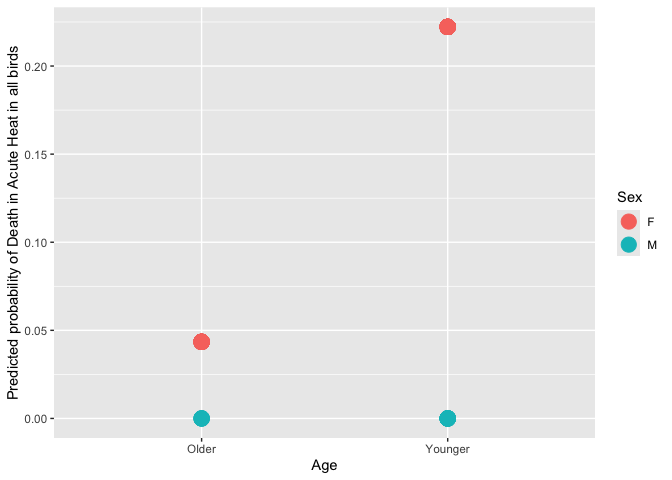
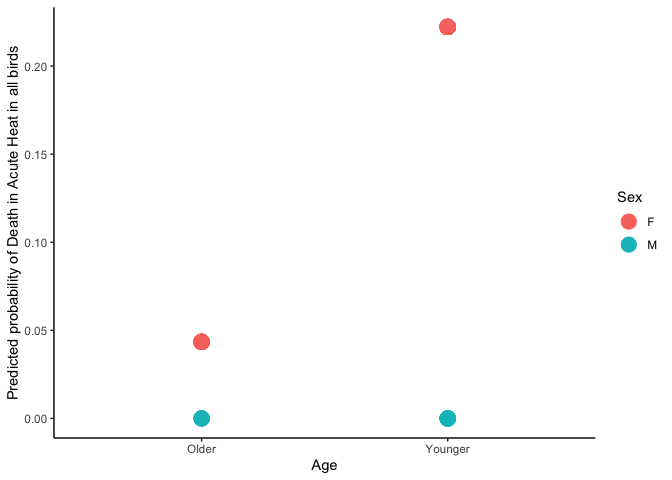
Death

diff --git a/AHDB1_Death_TS.md b/AHDB1_Death_TS.md
@@ -212,7 +212,8 @@ predicted.data_sex <- data.frame(
 ggplot(data=predicted.data_sex, aes(x=sex, y=probability.of.Data)) +
   geom_point(aes(color=sex), size=5) +
   xlab("Sex") +
-  ylab("Predicted probability of Death in Acute Heat in all birds")
+  ylab("Predicted probability of Death in Acute Heat in all birds") +
+  theme_classic()
 ```
 
 ![](AHDB1_Death_TS_files/figure-gfm/unnamed-chunk-5-1.png)<!-- -->
@@ -301,7 +302,8 @@ predicted.data_Age <- data.frame(
 ggplot(data=predicted.data_Age, aes(x=AgeCategory, y=probability.of.Data)) +
   geom_point(aes(color=AgeCategory), size=5) +
   xlab("Age") +
-  ylab("Predicted probability of Death in Acute Heat in all birds")
+  ylab("Predicted probability of Death in Acute Heat in all birds") +
+  theme_classic()
 ```
 
 ![](AHDB1_Death_TS_files/figure-gfm/unnamed-chunk-8-1.png)<!-- -->
@@ -391,7 +393,8 @@ predicted.data_Age_Sex <- data.frame(
 ggplot(data=predicted.data_Age_Sex, aes(x=AgeCategory, y=probability.of.Data, fill=Sex)) +
   geom_point(aes(color=Sex), size=5) +
   xlab("Age") +
-  ylab("Predicted probability of Death in Acute Heat in all birds")
+  ylab("Predicted probability of Death in Acute Heat in all birds") +
+  theme_classic()
 ```
 
 ![](AHDB1_Death_TS_files/figure-gfm/unnamed-chunk-11-1.png)<!-- -->
@@ -518,7 +521,8 @@ predicted.data <- data.frame(
 ggplot(data=predicted.data, aes(x=sex, y=probability.of.YoungerData)) +
   geom_point(aes(color=sex), size=5) +
   xlab("Sex") +
-  ylab("Predicted probability of Death in Acute Heat in 4 month old birds")
+  ylab("Predicted Probability of Acute Heat Death in Younger Birds") +
+  theme_classic()
 ```
 
 ![](AHDB1_Death_TS_files/figure-gfm/unnamed-chunk-15-1.png)<!-- -->
